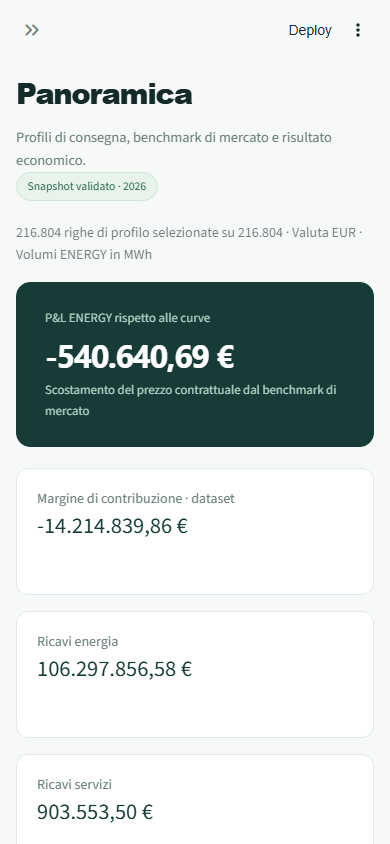
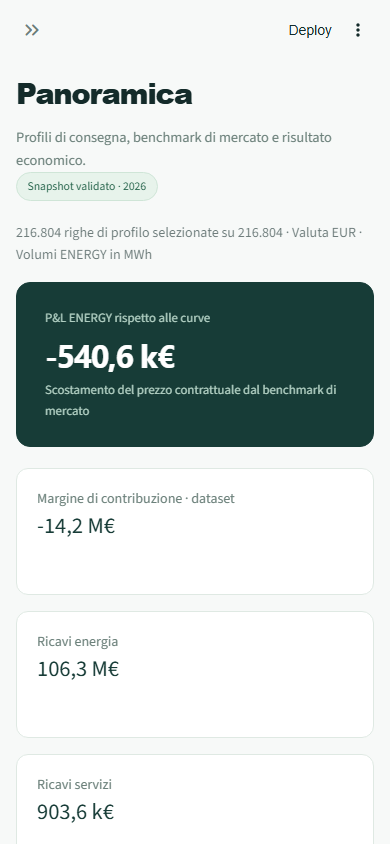
Display monetary dashboard values in kEUR and MEUR

diff --git a/Code/Python/web_report/app.py b/Code/Python/web_report/app.py
@@ -7,6 +7,7 @@ import pandas as pd
 import streamlit as st
 
 from charts import contribution_chart, monthly_chart, waterfall
+from formatting import money
 from data_model import (COUNTRIES, DETAIL_COLUMNS, DIMENSIONS, MONTH_COLUMNS, MONTH_NAMES,
                         WEB_DIR, csv_bytes, filter_indices, fmt, load_snapshot,
                         snapshot_signature, summary)
@@ -118,11 +119,11 @@ if not indices:
 stats = results["statistics"]
 if stats["n_energy_incomplete"]:
     st.warning(f"Dati ENERGY incompleti: {stats['n_energy_incomplete']} righe senza P&L calcolabile. I totali completi restano non disponibili.")
-def metric_value(name, suffix=" €"):
+def metric_value(name):
     value = stats[name]
     if value is None:
         return "Non applicabile" if stats["n_energy"] == 0 and name in ("pnl", "volume_energy") else "Dati incompleti"
-    return fmt(value, 0 if name == "volume_energy" else 2) + suffix
+    return fmt(value, 0) + " MWh" if name == "volume_energy" else money(value)
 
 if page == "Panoramica":
     pnl_text = escape(metric_value("pnl"))
@@ -133,7 +134,7 @@ if page == "Panoramica":
         col.metric(title, metric_value(key))
     cols = st.columns(3)
     cols[0].metric("Costi di acquisto energia", metric_value("cost_energy"))
-    cols[1].metric("Volume ENERGY", metric_value("volume_energy", " MWh"))
+    cols[1].metric("Volume ENERGY", metric_value("volume_energy"))
     cols[2].metric("Righe ENERGY con P&L calcolabile", fmt(stats["n_calculable"], 0))
     if stats["n_energy"]:
         st.subheader("Andamento mensile del P&L")
@@ -157,7 +158,7 @@ elif page == "Conto Economico":
         table = [("Ricavi da vendita di energia", stats["revenue_energy"]), ("Ricavi da servizi", stats["revenue_service"]),
                  ("Totale ricavi", total_revenue), ("Costi di acquisto di energia", stats["cost_energy"]),
                  ("Margine di contribuzione", stats["known_margin"])]
-        st.dataframe(pd.DataFrame({"Voce": [k for k, _ in table], "EUR": [fmt(v) if v is not None else "Dati incompleti" for _, v in table]}),
+        st.dataframe(pd.DataFrame({"Voce": [k for k, _ in table], "Importo": [money(v) if v is not None else "Dati incompleti" for _, v in table]}),
                      hide_index=True, width="stretch")
     with right:
         if stats["known_margin"] is not None:
@@ -174,8 +175,9 @@ else:
         col.metric(title, fmt(stats[name], 0))
     st.subheader("Risultati mensili")
     monthly_frame = pd.DataFrame(results["monthly"])
-    st.dataframe(monthly_frame, hide_index=True, width="stretch",
-                 column_config={name: st.column_config.NumberColumn(format="%.2f") for name in ("importo_total", "pnl_energy", "market_value_signed_energy", "importo_service_power")})
+    for name in ("importo_total", "pnl_energy", "market_value_signed_energy", "importo_service_power", "pnl_energy_calculable_subtotal"):
+        monthly_frame[name] = [money(row[name]) if row[name] is not None else "Non applicabile / incompleto" for row in results["monthly"]]
+    st.dataframe(monthly_frame, hide_index=True, width="stretch")
     st.download_button("Scarica il mensile filtrato", csv_bytes(results["monthly"], MONTH_COLUMNS),
                        "monthly_summary_filtered.csv", "text/csv", key="monthly_download")
     st.subheader("Profili orari")
@@ -210,11 +212,15 @@ else:
     page_number = st.number_input("Pagina", min_value=1, max_value=pages, value=1, step=1, key="detail_page")
     start = (int(page_number) - 1) * 100
     frame = pd.DataFrame([{k: r[k] for k in columns} for r in detail_rows[start:start + 100]], columns=columns)
+    for name in ("IMPORTO", "importo_value", "market_value_signed", "pnl"):
+        if name in columns:
+            field = "importo_value" if name == "IMPORTO" else name
+            frame[name] = [money(row[field]) if row[field] is not None else "Non applicabile / incompleto" for row in detail_rows[start:start + 100]]
     if frame.empty:
         st.info("Nessun profilo orario per data e ora selezionate.")
     else:
         st.dataframe(frame, hide_index=True, width="stretch",
-                     column_config={k: st.column_config.NumberColumn(format="%.2f") for k in ("contract_price", "market_price", "pnl", "volume_value") if k in columns})
+                     column_config={k: st.column_config.NumberColumn(label=f"{k} (€/MWh)" if k in ("contract_price", "market_price") else k, format="%.2f") for k in ("contract_price", "market_price", "volume_value") if k in columns})
     st.caption(f"Pagina {page_number} di {pages} · {fmt(len(detail_rows), 0)} righe. deal_row_id e un identificativo tecnico di riga, non di contratto.")
     if st.button("Prepara CSV di tutte le righe selezionate", key="prepare_download"):
         st.session_state["detail_export"] = (selections, chosen_date, chosen_hour, order_by, descending, csv_bytes(detail_rows, DETAIL_COLUMNS))
@@ -226,4 +232,5 @@ else:
         st.write("Snapshot verificato tramite SHA-256 e riconciliato con i risultati R e Python. Le ore 25 sono conservate. I costi e ricavi sono classificati per purpose e commodity.")
         st.code(snapshot.manifest["dataset_id"], language=None)
 
+st.caption("Importi in k€ (migliaia) o M€ (milioni), con una cifra decimale. Prezzi in €/MWh. I CSV conservano gli importi originali e la precisione completa.")
 st.markdown(f'<div class="footer">Sorgenia Trading · Business case · Snapshot {snapshot.manifest["dataset_id"][:12]} · EUR / MWh come ipotesi del dataset</div>', unsafe_allow_html=True)

diff --git a/Code/Python/web_report/charts.py b/Code/Python/web_report/charts.py
@@ -1,7 +1,8 @@
 """Grafici di presentazione: nessun calcolo finanziario nel frontend."""
 import plotly.graph_objects as go
 
-from data_model import COUNTRIES, MONTH_NAMES, fmt
+from data_model import COUNTRIES, MONTH_NAMES
+from formatting import money, money_scale
 
 GREEN, RED, INK, MUTED = "#168365", "#BD5A56", "#173C37", "#6C817B"
 
@@ -12,7 +13,7 @@ def style(fig, height=350):
                       font=dict(family="Arial, sans-serif", color=INK, size=12),
                       separators=",.", showlegend=False, hoverlabel=dict(bgcolor="white"))
     fig.update_xaxes(showgrid=False, zeroline=False)
-    fig.update_yaxes(gridcolor="#E7EEEA", zeroline=True, zerolinecolor="#ABBDB5", tickformat=",.0f")
+    fig.update_yaxes(gridcolor="#E7EEEA", zeroline=True, zerolinecolor="#ABBDB5")
     return fig
 
 
@@ -28,10 +29,11 @@ def monthly_chart(monthly):
         contributions = [row["pnl_energy"] for row in groups[key] if row["n_energy"] > 0]
         labels.append(f"{MONTH_NAMES[int(key[1]) - 1][:3]} {int(key[0])}" if key[0] is not None else "Data non valida")
         values.append(finance.strict_sum(contributions))
-    fig = go.Figure(go.Bar(x=labels, y=values, marker_color=[GREEN if x is not None and x >= 0 else RED for x in values],
-                          customdata=[fmt(x) if x is not None else "Dati incompleti" for x in values],
-                          hovertemplate="%{x}<br>P&L: %{customdata} EUR<extra></extra>"))
-    fig.update_yaxes(title="EUR")
+    divisor, unit = money_scale(values)
+    fig = go.Figure(go.Bar(x=labels, y=[x / divisor if x is not None else None for x in values], marker_color=[GREEN if x is not None and x >= 0 else RED for x in values],
+                          customdata=[money(x) if x is not None else "Dati incompleti" for x in values],
+                          hovertemplate="%{x}<br>P&L: %{customdata}<extra></extra>"))
+    fig.update_yaxes(title=unit, tickformat=",.1f", ticksuffix=f" {unit}")
     fig.update_xaxes(type="category")
     return style(fig)
 
@@ -40,21 +42,24 @@ def contribution_chart(values, country=False):
     values = sorted(values, key=lambda pair: (pair[1] is None, pair[1] or 0))
     labels = [COUNTRIES.get(key, key) if country else key for key, _ in values]
     amounts = [value for _, value in values]
-    fig = go.Figure(go.Bar(x=amounts, y=labels, orientation="h",
+    divisor, unit = money_scale(amounts)
+    fig = go.Figure(go.Bar(x=[x / divisor if x is not None else None for x in amounts], y=labels, orientation="h",
                           marker_color=[GREEN if x is not None and x >= 0 else RED for x in amounts],
-                          customdata=[fmt(x) if x is not None else "Dati incompleti" for x in amounts],
-                          hovertemplate="%{y}<br>P&L: %{customdata} EUR<extra></extra>"))
-    fig.update_xaxes(title="EUR", tickformat=",.0f", zeroline=True, zerolinecolor="#ABBDB5")
+                          customdata=[money(x) if x is not None else "Dati incompleti" for x in amounts],
+                          hovertemplate="%{y}<br>P&L: %{customdata}<extra></extra>"))
+    fig.update_xaxes(title=unit, tickformat=",.1f", ticksuffix=f" {unit}", zeroline=True, zerolinecolor="#ABBDB5")
     return style(fig, height=300)
 
 
 def waterfall(stats):
+    amounts = [stats["revenue_energy"], stats["revenue_service"], -stats["cost_energy"], stats["known_margin"]]
+    divisor, unit = money_scale(amounts)
     fig = go.Figure(go.Waterfall(measure=["relative", "relative", "relative", "total"],
                                 x=["Ricavi energia", "Ricavi servizi", "Costi energia", "Margine"],
-                                y=[stats["revenue_energy"], stats["revenue_service"], -stats["cost_energy"], 0],
-                                text=[fmt(stats[k]) for k in ("revenue_energy", "revenue_service", "cost_energy", "known_margin")],
+                                y=[value / divisor for value in amounts[:3]] + [0],
+                                text=[money(value) for value in amounts],
                                 textposition="outside", connector=dict(line=dict(color="#CAD6D0")),
                                 increasing=dict(marker=dict(color=GREEN)), decreasing=dict(marker=dict(color=RED)),
-                                totals=dict(marker=dict(color=INK)), hovertemplate="%{x}<br>%{text} EUR<extra></extra>"))
-    fig.update_yaxes(title="EUR")
+                                totals=dict(marker=dict(color=INK)), hovertemplate="%{x}<br>%{text}<extra></extra>"))
+    fig.update_yaxes(title=unit, tickformat=",.1f", ticksuffix=f" {unit}")
     return style(fig, height=430)

diff --git a/Code/Python/web_report/browser_check.py b/Code/Python/web_report/browser_check.py
@@ -21,19 +21,21 @@ def main():
         errors = []
         page.on("pageerror", lambda error: errors.append(str(error)))
         start = time.perf_counter()
-        page.goto("http://127.0.0.1:8501", wait_until="domcontentloaded")
-        expect(page.get_by_text("-540.640,69 €", exact=True)).to_be_visible(timeout=120000)
+        url = os.environ.get("WEB_REPORT_URL", "http://127.0.0.1:8501")
+        page.goto(url, wait_until="domcontentloaded")
+        expect(page.get_by_text("-540,6 k€", exact=True)).to_be_visible(timeout=120000)
         expect(page.locator('[data-testid="stPlotlyChart"] .js-plotly-plot')).to_have_count(3, timeout=60000)
         axis_labels = page.locator('[data-testid="stPlotlyChart"]').first.locator(".xtick text").all_text_contents()
         if not any("Gen" in text for text in axis_labels):
             raise AssertionError(f"Mesi non localizzati in italiano: {axis_labels}")
+        expect(page.locator('[data-testid="stPlotlyChart"]').first.locator(".ytitle")).to_have_text("k€")
         results.append({"view": "desktop_overview", "seconds": round(time.perf_counter() - start, 3)})
         page.screenshot(path=str(target / "desktop_overview.png"), full_page=True)
         page.get_by_role("heading", name="Contributo per paese", exact=True).scroll_into_view_if_needed()
         page.screenshot(path=str(target / "desktop_contributions.png"), full_page=True)
         page.get_by_test_id("stSidebar").get_by_text("Conto Economico", exact=True).click()
         expect(page.get_by_role("heading", name="Conto Economico", exact=True)).to_be_visible()
-        expect(page.get_by_text("-14.214.839,86 €", exact=True)).to_be_visible()
+        expect(page.get_by_test_id("stMetricValue").get_by_text("-14,2 M€", exact=True)).to_be_visible()
         expect(page.locator('[data-testid="stPlotlyChart"] .js-plotly-plot')).to_have_count(1, timeout=60000)
         page.screenshot(path=str(target / "desktop_conto_economico.png"), full_page=True)
         results.append({"view": "desktop_conto_economico", "passed": True})
@@ -45,8 +47,8 @@ def main():
                                      is_mobile=True, has_touch=True)
         mobile_page = mobile.new_page()
         mobile_page.on("pageerror", lambda error: errors.append(str(error)))
-        mobile_page.goto("http://127.0.0.1:8501", wait_until="domcontentloaded")
-        expect(mobile_page.get_by_text("-540.640,69 €", exact=True)).to_be_visible(timeout=120000)
+        mobile_page.goto(url, wait_until="domcontentloaded")
+        expect(mobile_page.get_by_text("-540,6 k€", exact=True)).to_be_visible(timeout=120000)
         expect(mobile_page.locator('[data-testid="stPlotlyChart"] .js-plotly-plot')).to_have_count(3, timeout=60000)
         overflow = mobile_page.evaluate("document.documentElement.scrollWidth > window.innerWidth + 1")
         if overflow:

diff --git a/Code/Python/web_report/test_web_report.py b/Code/Python/web_report/test_web_report.py
@@ -133,8 +133,8 @@ class InterfaceTests(unittest.TestCase):
 
     def test_01_overview(self):
         self.check_no_exception()
-        self.assertTrue(any("-540.640,69" in x.value for x in self.app.markdown))
-        self.assertTrue(any(x.value == "-14.214.839,86 €" for x in self.app.metric))
+        self.assertTrue(any("-540,6 k€" in x.value for x in self.app.markdown))
+        self.assertTrue(any(x.value == "-14,2 M€" for x in self.app.metric))
 
     def test_02_services_filters_and_navigation(self):
         self.app.multiselect(key="filter_commodity").set_value(["SERVICE_POWER"]).run()
@@ -143,7 +143,7 @@ class InterfaceTests(unittest.TestCase):
         self.app.radio(key="navigation").set_value("Conto Economico").run()
         self.check_no_exception()
         self.assertEqual(self.app.multiselect(key="filter_commodity").value, ["SERVICE_POWER"])
-        self.assertTrue(any(x.value == "903.553,50 €" for x in self.app.metric))
+        self.assertTrue(any(x.value == "903,6 k€" for x in self.app.metric))
 
     def test_03_empty_and_reset(self):
         self.app.multiselect(key="filter_market").set_value([]).run()

diff --git a/Code/Python/web_report/formatting.py b/Code/Python/web_report/formatting.py
@@ -1,0 +1,15 @@
+"""Formati di sola presentazione: importi compatti, dati ed export invariati."""
+from data_model import fmt
+
+
+def money_scale(values):
+    """Scala comune per gli assi di un grafico; il segno non cambia la scala."""
+    largest = max((abs(value) for value in values if value is not None), default=0)
+    return (1_000_000, "M€") if largest >= 1_000_000 else (1_000, "k€")
+
+
+def money(value):
+    if value is None:
+        return "Non applicabile"
+    divisor, unit = money_scale([value])
+    return f"{fmt(value / divisor, 1)} {unit}"

diff --git a/Code/Python/web_report/README.md b/Code/Python/web_report/README.md
@@ -24,6 +24,8 @@ Dopo la prima configurazione basta eseguire `python Code/Python/web_report/run_l
 
 ## Dati e precisione
 
+Gli importi dell'interfaccia sono abbreviati con una cifra decimale: `k€` per migliaia e `M€` da un milione (in valore assoluto). Per esempio, `-540.640,69 €` diventa `-540,6 k€` e `-14.214.839,86 €` diventa `-14,2 M€`. Il segno viene preservato. Ogni asse monetario usa una scala comune, indicata nelle etichette; tooltip e tabelle mostrano l'unità accanto all'importo. I prezzi unitari restano in `€/MWh`, i volumi in MWh e i contatori in righe. Calcoli, snapshot e CSV scaricabili conservano valori e precisione originali.
+
 `prepare_data.py` legge gli output di `Output/python`, controlla gli hash nel verbale di validazione, riconcilia ogni gruppo mensile tramite il modulo finanziario esistente e confronta **tutti gli importi pubblicati** con i report R e Python. I CSV sorgenti restano intatti.
 
 Lo snapshot in `data/` contiene dettaglio CSV gzip, riferimento mensile, indicatori di controllo e manifesto con SHA-256, schema e contatori. La compressione ha timestamp e filename gzip fissi: due preparazioni con gli stessi input generano file identici. Il manifesto viene sostituito per ultimo; un aggiornamento incompleto viene rifiutato.
